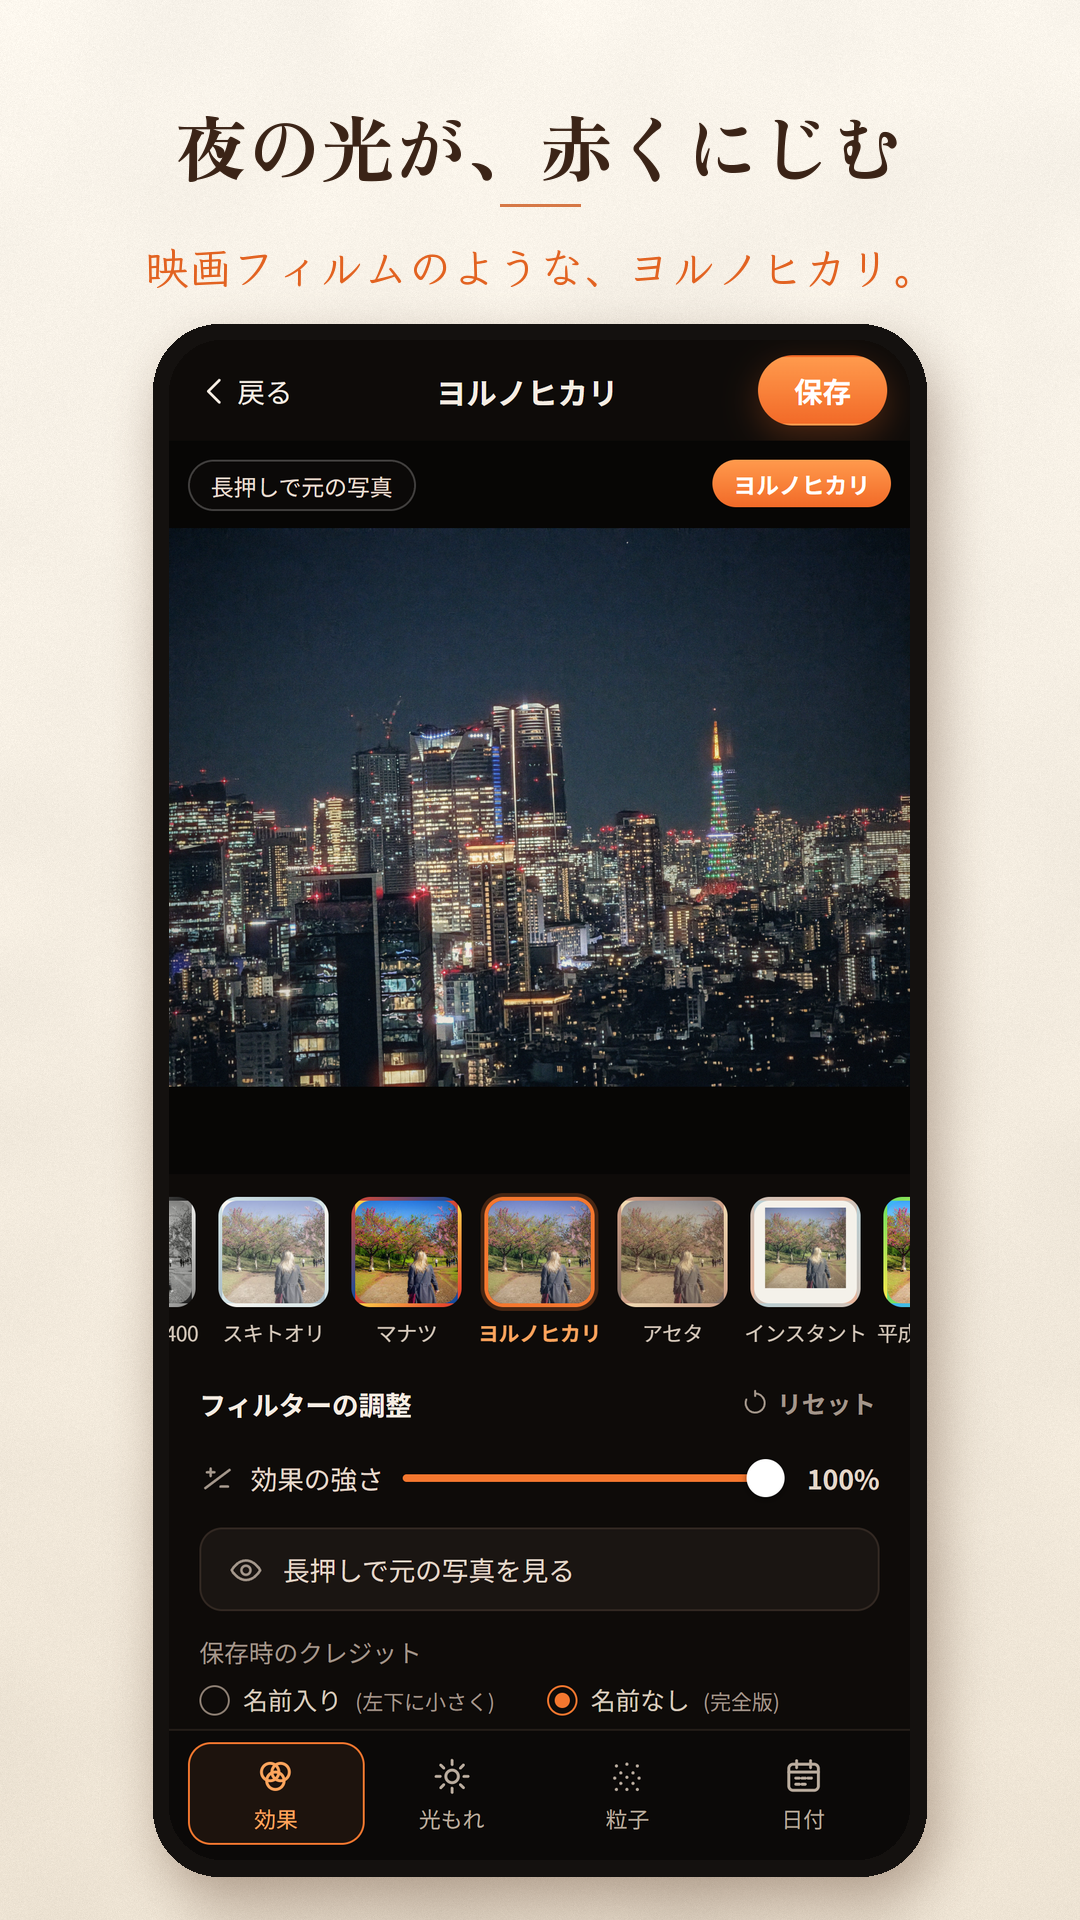
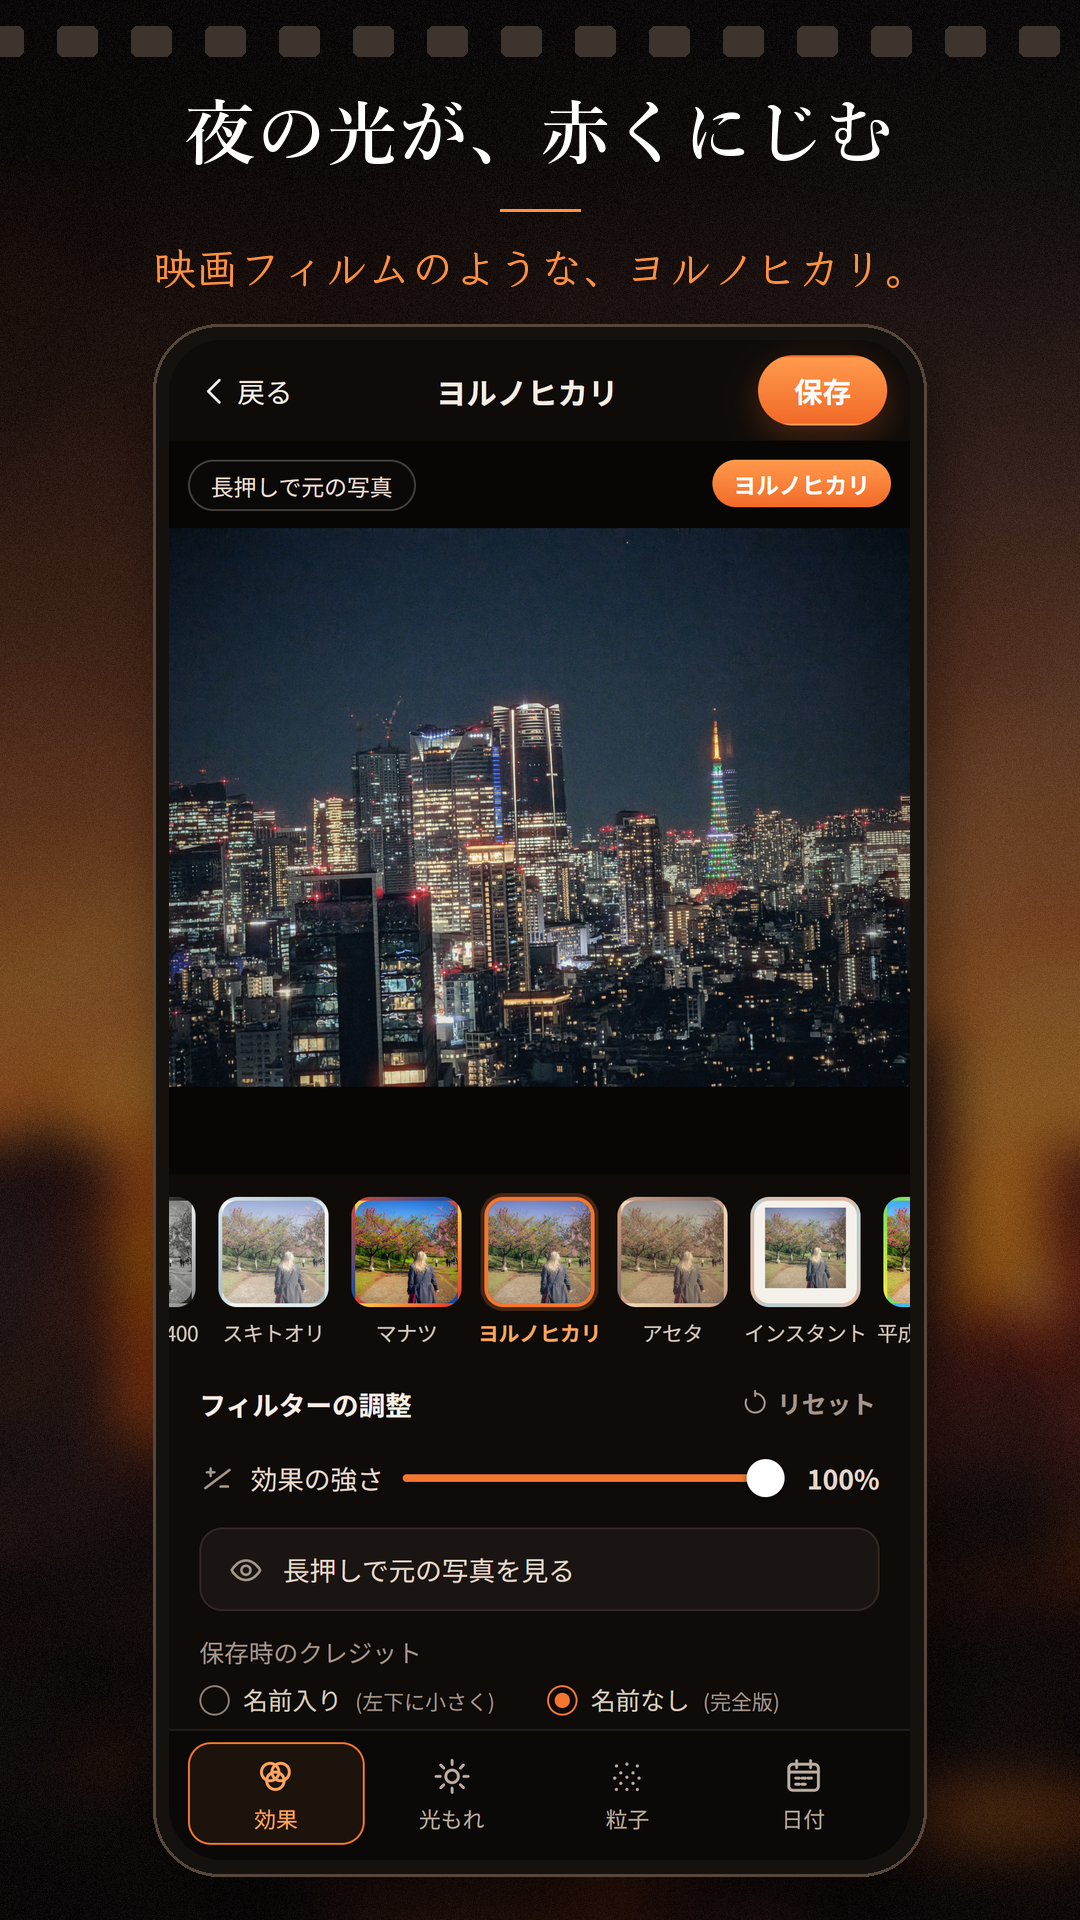
ストア画像の地をクリーム色の紙から夕焼けの写真を黒に沈めた地に、題字を游明朝 Demibold に
元の画像は store/_cream_backup_2026-10-10/。--compose-only で撮り直さずに組める。

diff --git a/scripts/make_screenshots.py b/scripts/make_screenshots.py
@@ -1,4 +1,7 @@
-# Play のストア用の画面写真(1080x1920)を作る。実際のアプリ画面を撮り、見本と同じクリーム色の紙に題字・手書きの一言を載せる。
+# Play のストア用の画面写真(1080x1920)を作る。実際のアプリ画面を撮り、黒と夕焼けの橙の地に題字・手書きの一言を載せる。
+# 2026-10-10 持ち主「Claude 特有の背景をなくして」: クリーム色の紙をやめ、アプリの夕焼けの写真(paywall_sunset.jpg)を
+#   ぼかして黒に沈めた地+フィルムの穴の列にした。題字は游明朝 Demibold(白)。前の版は store/_cream_backup_2026-10-10/。
+#   撮り直さずに組むだけなら --compose-only(research/shots_raw の写真を使う)。
 # 2026-10-10 見た目の作り直しに合わせて作り直し(前の版は store/_old_2026-10-10/play/)。iOS は出し直さないので作らない。
 # 値段と「無料」は写さない(完全版を買った状態=開発ビルドの疑似購入で撮る。購入画面は撮らない)。
 # 開発サーバー(npx vite --port 5181)を開いた状態で: python scripts/make_screenshots.py
@@ -13,6 +16,9 @@ RAW = os.path.join(APP, 'research', 'shots_raw')
 os.makedirs(RAW, exist_ok=True)
 FONTS = os.path.join(os.environ['LOCALAPPDATA'], 'NegairoBuild', 'fonts')
 LOGO = os.path.join(FONTS, 'ZenOldMincho-Black.ttf')
+TITLE = 'C:/Windows/Fonts/yumindb.ttf'   # 見出し(游明朝 Demibold)
+SUNSET = os.path.join(APP, 'src', 'assets', 'art', 'paywall_sunset.jpg')
+ORANGE = (255, 146, 64)
 HAND = os.path.join(FONTS, 'KleeOne-SemiBold.ttf')
 CAM = None  # e2e.py が作る偽のカメラ映像
 
@@ -75,29 +81,55 @@ def capture(pw):
 
 
 def paper(W, H):
-    """見本の背景のようなクリーム色の紙(上が明るく、うっすら斑)"""
+    """前の版の紙(もう使わない。比較用に残す)"""
     import numpy as np
     y = np.linspace(0, 1, H)[:, None, None]
     top, bot = np.array([250, 245, 236]), np.array([238, 228, 212])
-    arr = top * (1 - y) + bot * y
-    arr = np.broadcast_to(arr, (H, W, 3)).copy()
-    rng = np.random.default_rng(5)
-    blot = Image.fromarray((rng.random((H // 40, W // 40)) * 255).astype('uint8')).resize((W, H), Image.BICUBIC).filter(ImageFilter.GaussianBlur(30))
-    arr += (np.asarray(blot)[..., None] / 255 - 0.5) * 10
-    arr += rng.normal(0, 2.2, (H, W, 1))
+    arr = np.broadcast_to(top * (1 - y) + bot * y, (H, W, 3)).copy()
     return Image.fromarray(np.clip(arr, 0, 255).astype('uint8'))
 
 
+def dusk(W, H, glow_y=0.62, dark_top=0.92, dark_bot=0.45, blur=None):
+    """夕焼けの写真をぼかして黒に沈めた地。上ほど黒く、glow_y あたりで橙が透ける。粒子を少し"""
+    import numpy as np
+    src = Image.open(SUNSET).convert('RGB')
+    sc = max(W / src.width, H / src.height)
+    src = src.resize((int(src.width * sc) + 1, int(src.height * sc) + 1), Image.LANCZOS)
+    x, y = (src.width - W) // 2, (src.height - H) // 2
+    im = src.crop((x, y, x + W, y + H)).filter(ImageFilter.GaussianBlur(blur if blur is not None else W / 45))
+    arr = np.asarray(im).astype('float32')
+    yy = np.linspace(0, 1, H)[:, None, None]
+    dark = dark_top + (dark_bot - dark_top) * np.clip(yy / glow_y, 0, 1)
+    dark = np.where(yy > glow_y, dark_bot + (yy - glow_y) / (1 - glow_y) * (0.8 - dark_bot), dark)
+    arr = arr * (1 - dark) + np.array([10, 8, 8]) * dark
+    rng = np.random.default_rng(7)
+    arr += rng.normal(0, 4, (H, W, 1))
+    return Image.fromarray(np.clip(arr, 0, 255).astype('uint8'))
+
+
+def sprockets(im, y, h, color=(62, 52, 46)):
+    """フィルムの穴の列(上の飾り)"""
+    W = im.width
+    d = ImageDraw.Draw(im)
+    w = int(h * 1.35)
+    gap = int(w * 0.85)
+    x = -gap // 2
+    while x < W:
+        d.rounded_rectangle([x, y, x + w, y + h], radius=int(h * 0.22), fill=color)
+        x += w + gap
+
+
 def compose(raw, W, H, title, sub, path):
-    bg = paper(W, H)
+    bg = dusk(W, H)
+    sprockets(bg, 26, 30)
     d = ImageDraw.Draw(bg)
-    ft = ImageFont.truetype(LOGO, int(W * 0.068))
-    fh = ImageFont.truetype(HAND, int(W * 0.041))
+    ft = ImageFont.truetype(TITLE, int(W * 0.066))
+    fh = ImageFont.truetype(HAND, int(W * 0.040))
     tw = d.textlength(title, font=ft)
-    d.text(((W - tw) / 2, 92), title, font=ft, fill=(59, 36, 23))
-    d.line([(W / 2 - 40, 205), (W / 2 + 40, 205)], fill=(214, 120, 70), width=3)
+    d.text(((W - tw) / 2, 96), title, font=ft, fill=(255, 255, 255))
+    d.line([(W / 2 - 40, 210), (W / 2 + 40, 210)], fill=ORANGE, width=3)
     sw = d.textlength(sub, font=fh)
-    d.text(((W - sw) / 2, 232), sub, font=fh, fill=(226, 98, 32))
+    d.text(((W - sw) / 2, 234), sub, font=fh, fill=ORANGE)
     im = Image.open(raw).convert('RGB')
     top = 340
     ph = H - top - 60
@@ -109,9 +141,9 @@ def compose(raw, W, H, title, sub, path):
     sh = Image.new('L', (W, H), 0)
     ImageDraw.Draw(sh).rounded_rectangle([x - bz + 10, top - bz + 24, x + im.width + bz + 10, top + ph + bz + 24], radius=70, fill=110)
     sh = sh.filter(ImageFilter.GaussianBlur(26))
-    bg.paste(Image.new('RGB', (W, H), (90, 60, 40)), (0, 0), sh)
+    bg.paste(Image.new('RGB', (W, H), (0, 0, 0)), (0, 0), sh)
     d = ImageDraw.Draw(bg)
-    d.rounded_rectangle([x - bz, top - bz, x + im.width + bz, top + ph + bz], radius=66, fill=(20, 17, 15))
+    d.rounded_rectangle([x - bz, top - bz, x + im.width + bz, top + ph + bz], radius=66, fill=(20, 17, 15), outline=(86, 70, 60), width=3)
     m = Image.new('L', im.size, 0)
     ImageDraw.Draw(m).rounded_rectangle([0, 0, im.width - 1, im.height - 1], radius=52, fill=255)
     bg.paste(im, (x, top), m)
@@ -121,8 +153,12 @@ def compose(raw, W, H, title, sub, path):
 if __name__ == '__main__':
     store = os.path.join(APP, 'store', 'play')
     os.makedirs(store, exist_ok=True)
-    with sync_playwright() as pw:
-        play = capture(pw)
+    import sys
+    if '--compose-only' in sys.argv:
+        play = {n: os.path.join(RAW, f'play_{n}.png') for n, *_ in SHOTS}
+    else:
+        with sync_playwright() as pw:
+            play = capture(pw)
     for name, *_rest, title, sub in SHOTS:
         compose(play[name], 1080, 1920, title, sub, os.path.join(store, f'play_shot_{name}.png'))
     print('ok')

diff --git a/scripts/make_feature.py b/scripts/make_feature.py
@@ -1,14 +1,23 @@
 # Play のフィーチャーグラフィック 1024x500(2026-10-10 作り直し。前の版は store/_old_2026-10-10/play/)。
-# 見本と同じクリーム色の紙に、アイコン・題字・一言と、見本から切り出したポラロイド風の写真2枚。値段と「無料」は入れない。
+# 黒と夕焼けの橙の地(夕焼けの写真をぼかして沈めた物・2026-10-10 クリーム色の紙から変更)に、アイコン・題字・一言と、
+# 見本から切り出したポラロイド風の写真2枚。値段と「無料」は入れない。前の版は store/_cream_backup_2026-10-10/play/。
 # python scripts/make_feature.py
 import os
 from PIL import Image, ImageDraw, ImageFilter, ImageFont
-from make_screenshots import paper, LOGO, HAND
+from make_screenshots import dusk, sprockets, LOGO, HAND, TITLE, ORANGE
 
 APP = os.path.dirname(os.path.dirname(os.path.abspath(__file__)))
 ART = os.path.join(APP, 'src', 'assets', 'art')
 W, H = 1024, 500
-bg = paper(W, H).convert('RGBA')
+bg = dusk(W, H, glow_y=0.55, dark_top=0.86, dark_bot=0.5, blur=6)
+# 左は黒く沈めて文字を読みやすく、右に夕焼けを残す
+_sh = Image.new('L', (W, H), 0)
+for _x in range(W):
+    ImageDraw.Draw(_sh).line([(_x, 0), (_x, H)], fill=max(0, int(200 - _x * 200 / 640)))
+bg.paste(Image.new('RGB', (W, H), (10, 8, 8)), (0, 0), _sh)
+sprockets(bg, 12, 18)
+sprockets(bg, H - 30, 18)
+bg = bg.convert('RGBA')
 
 
 def polaroid(src, w, angle, date=None):
@@ -33,7 +42,7 @@ def polaroid(src, w, angle, date=None):
 def drop(img, pos):
     sh = Image.new('RGBA', img.size, (0, 0, 0, 0))
     sh.putalpha(img.getchannel('A').point(lambda a: 70 if a else 0))
-    sh = Image.composite(Image.new('RGBA', img.size, (90, 55, 30, 255)), Image.new('RGBA', img.size, (0, 0, 0, 0)), sh.getchannel('A'))
+    sh = Image.composite(Image.new('RGBA', img.size, (0, 0, 0, 255)), Image.new('RGBA', img.size, (0, 0, 0, 0)), sh.getchannel('A'))
     sh = sh.filter(ImageFilter.GaussianBlur(10))
     bg.alpha_composite(sh, (pos[0] + 6, pos[1] + 12))
     bg.alpha_composite(img, pos)
@@ -50,12 +59,12 @@ bg.alpha_composite(sh.filter(ImageFilter.GaussianBlur(8)), (46, 64))
 bg.alpha_composite(ic, (56, 64))
 
 d = ImageDraw.Draw(bg)
-d.text((256, 70), 'ネガイロ', font=ImageFont.truetype(LOGO, 84), fill=(46, 28, 18))
-d.text((262, 196), 'あの日の、あの色を、いまの毎日に。', font=ImageFont.truetype(LOGO, 22), fill=(74, 48, 32))
-d.line([(262, 244), (318, 244)], fill=(214, 120, 70), width=3)
+d.text((256, 70), 'ネガイロ', font=ImageFont.truetype(TITLE, 84), fill=(255, 255, 255))
+d.text((262, 196), 'あの日の、あの色を、いまの毎日に。', font=ImageFont.truetype(TITLE, 22), fill=(236, 226, 214))
+d.line([(262, 244), (318, 244)], fill=ORANGE, width=3)
 fh = ImageFont.truetype(HAND, 30)
-d.text((60, 300), 'フィルムカメラ風・日付入り', font=fh, fill=(226, 98, 32))
-d.text((60, 352), '光もれ・粒子・効果の強さ。', font=ImageFont.truetype(HAND, 24), fill=(90, 60, 40))
-d.text((60, 392), '加工は端末の中だけ。元の写真は書き換えません。', font=ImageFont.truetype(HAND, 22), fill=(90, 60, 40))
+d.text((60, 300), 'フィルムカメラ風・日付入り', font=fh, fill=ORANGE)
+d.text((60, 352), '光もれ・粒子・効果の強さ。', font=ImageFont.truetype(HAND, 24), fill=(232, 222, 210))
+d.text((60, 392), '加工は端末の中だけ。元の写真は書き換えません。', font=ImageFont.truetype(HAND, 22), fill=(232, 222, 210))
 bg.convert('RGB').save(os.path.join(APP, 'store', 'play', 'feature_1024x500.png'))
 print('ok')
